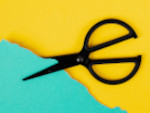
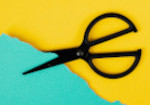
Fix images to git ref. More Styling, making responsive and using % instead px

diff --git a/style.css b/style.css
@@ -6,16 +6,46 @@ box-sizing: border-box
 
 html, body{
   font-family: roboto, sans-serif;
-  width: auto;
-  height: 100%;
+  width: 100%;
+  height: auto;
   background: rgb(114, 253, 207);
 }
 
-h1{
+header{
     display: flex;
+    flex-wrap: nowrap;
     align-content: center;
     justify-content: center;
-    padding: 30px
+    font-size: 50px;
+    font-weight: 900;
+    width: 100%;
+    height: 140px;
+    margin-top: 8%;
+}
+
+.span1{
+  color: brown;
+}
+
+.span2{
+  color: blueviolet;
+}
+
+.span3{
+  color: darkgreen;
+}
+
+footer {
+  display: flex;
+  align-content: center;
+  justify-content: center;
+  padding: 6%;
+  width: 100%;
+}
+
+.container {
+  width: 100%;
+  min-width: 550px;
 }
 
 h3{
@@ -25,6 +55,8 @@ h3{
   align-content: center;
   text-align: center;
   padding: 10px;
+  width: 100%;
+  font-size: xx-large;
 }
 
 h4{
@@ -33,15 +65,19 @@ h4{
   justify-content: center;
   align-content: center;
   text-align: center;
+  width: 100%;
+  font-size: x-large;
+  padding: 10px;
 }
 
 .icons{
   display: flex;
   flex-wrap: wrap;
-  justify-content: space-evenly;
+  justify-content: space-between;
   margin: 10px;
   padding: 20px;
   gap: 30px;
+  width: 100%;
 }
 
 .gameText{
@@ -49,35 +85,38 @@ h4{
   flex-wrap: wrap;
   justify-content: center;
   align-content: center;
-  font-size: x-large;
+  font-size: 40px;
   padding: 10px;
   text-align: center;
   font-weight: 800;
   white-space: pre-line;
   margin: 20px;
+  width: 100%;
 
 }
 
 .gameScore{
   display: flex;
   justify-content: center;
-  font-size: x-large;
+  align-content: center;
+  font-size: xx-large;
   padding: 20px;
   font-weight: 600;
   margin: 10px;
+  width: 100%;
 }
 
 .box1{
   display: flex;
-  justify-content: space-evenly;
+  justify-content: space-around;
   align-items: center ;
   font-size: larger;
-  height: 40px;
   padding: 30px;
-  font-size: x-large;
+  font-size: xx-large;
   font-weight: 700;
   text-align: center;
   white-space: pre-line;
+  width: 100%;
 }
 
 .playScore{
@@ -104,11 +143,7 @@ h4{
   align-items: center;
   padding: 20px;
   text-align: center;
-}
-
-.playBtn{
-  display: flex;
-  border: 6px solid rgb(235, 62, 99);
+  width: 100%;
 }
 
 .rockButton{
@@ -120,13 +155,14 @@ h4{
   border: none;
   outline: none;
   color: #fff;
-  background: #111;
+  background: brown;
   cursor: pointer;
   position: relative;
   z-index: 0;
   border-radius: 10px;
   font-size: larger;
   font-weight: 600;
+  width: 22%;
 }
 
 .paperButton{
@@ -138,13 +174,14 @@ h4{
   border: none;
   outline: none;
   color: #fff;
-  background: #111;
+  background: blueviolet;
   cursor: pointer;
   position: relative;
   z-index: 0;
   border-radius: 10px;
   font-size: larger;
   font-weight: 600;
+  width: 22%;
 }
 
 .siscorsButton{
@@ -156,13 +193,14 @@ h4{
   border: none;
   outline: none;
   color: #fff;
-  background: #111;
+  background: darkgreen;
   cursor: pointer;
   position: relative;
   z-index: 0;
   border-radius: 10px;
   font-size: larger;
   font-weight: 600;
+  width: 22%;
 }
 
 .rockButton:before {
@@ -185,7 +223,7 @@ h4{
 }
 
 .rockButton:active {
-  color: #000;
+  color: brown;
 }
 
 .rockButton:active:after {
@@ -202,7 +240,7 @@ h4{
   position: absolute;
   width: 100%;
   height: 100%;
-  background: #111;
+  background: rgb(97, 5, 5);
   left: 0;
   top: 0;
   border-radius: 10px;
@@ -228,7 +266,7 @@ h4{
 }
 
 .paperButton:active {
-  color: #000;
+  color: blueviolet;
 }
 
 .paperButton:active:after {
@@ -245,7 +283,7 @@ h4{
   position: absolute;
   width: 100%;
   height: 100%;
-  background: #111;
+  background: blueviolet;
   left: 0;
   top: 0;
   border-radius: 10px;
@@ -271,7 +309,7 @@ h4{
 }
 
 .siscorsButton:active {
-  color: #000;
+  color: darkgreen;
 }
 
 .siscorsButton:active:after {
@@ -288,7 +326,7 @@ h4{
   position: absolute;
   width: 100%;
   height: 100%;
-  background: #111;
+  background: darkgreen;
   left: 0;
   top: 0;
   border-radius: 10px;
@@ -303,7 +341,7 @@ h4{
 
 .playBtn {
   display: flex;
-  width: 300px;
+  width: 65%;
   height: 50px;
   border-radius: 10px;
   justify-content: center;
@@ -317,7 +355,7 @@ h4{
   border: none;
   outline: none;
   color: #fff;
-  background: #111;
+  background: darkblue;
   cursor: pointer;
   position: relative;
   z-index: 0;
@@ -343,7 +381,7 @@ h4{
 }
 
 .playBtn:active {
-  color: #000;
+  color: darkblue;
 }
 
 .playBtn:active:after {
@@ -360,9 +398,17 @@ h4{
   position: absolute;
   width: 100%;
   height: 100%;
-  background: #111;
+  background: darkblue;
   left: 0;
   top: 0;
   border-radius: 10px;
 }
 
+.buttons { 
+  width: 100%;
+  table-layout: fixed;
+  border-collapse: collapse;
+}
+.buttons button { 
+  width: 100%;
+}

diff --git a/index.html b/index.html
@@ -9,15 +9,16 @@
     <link rel="stylesheet" href="style.css">
 </head>
 <body>
-    <h1>Rock game test</h1>
+<div class="container"> 
+    <header><span class="span1">Rock</span>&nbsp;-&nbsp;<span class="span2">Paper</span>&nbsp;-&nbsp;<span class="span3">Scissors</span></header>
     
     <h3>Win 5 games to beat the computer!</h3> 
     <h4>Click a button below</h4>
     
     <div class="icons">
-        <button class="rockButton" type="button"><img src="/tree/main/images/rock.jpg">rock</button>
-            <button class="paperButton" type="button"><img src="/tree/main/images/paper.jpg">paper</button>
-            <button class="siscorsButton" type="button"><img src="/tree/main/images/sisscors.jpg">scissors</button>
+        <button class="rockButton" type="button"><img src="./images/rock1.jpg">rock</button>
+            <button class="paperButton" type="button"><img src="./images/paper1.jpg">paper</button>
+            <button class="siscorsButton" type="button"><img src="./images/sisscors.jpg">scissors</button>
     </div>
     <div class="gameText" >
                
@@ -37,6 +38,9 @@
     <div class="restart">
     <button class="playBtn">Restart</button>
     </div>
+
+    <footer>Rock, Paper, scissors Game. PirateMunch</footer>
     <script src="./rock.js"></script>   
+</div>
 </body>
 </html>
